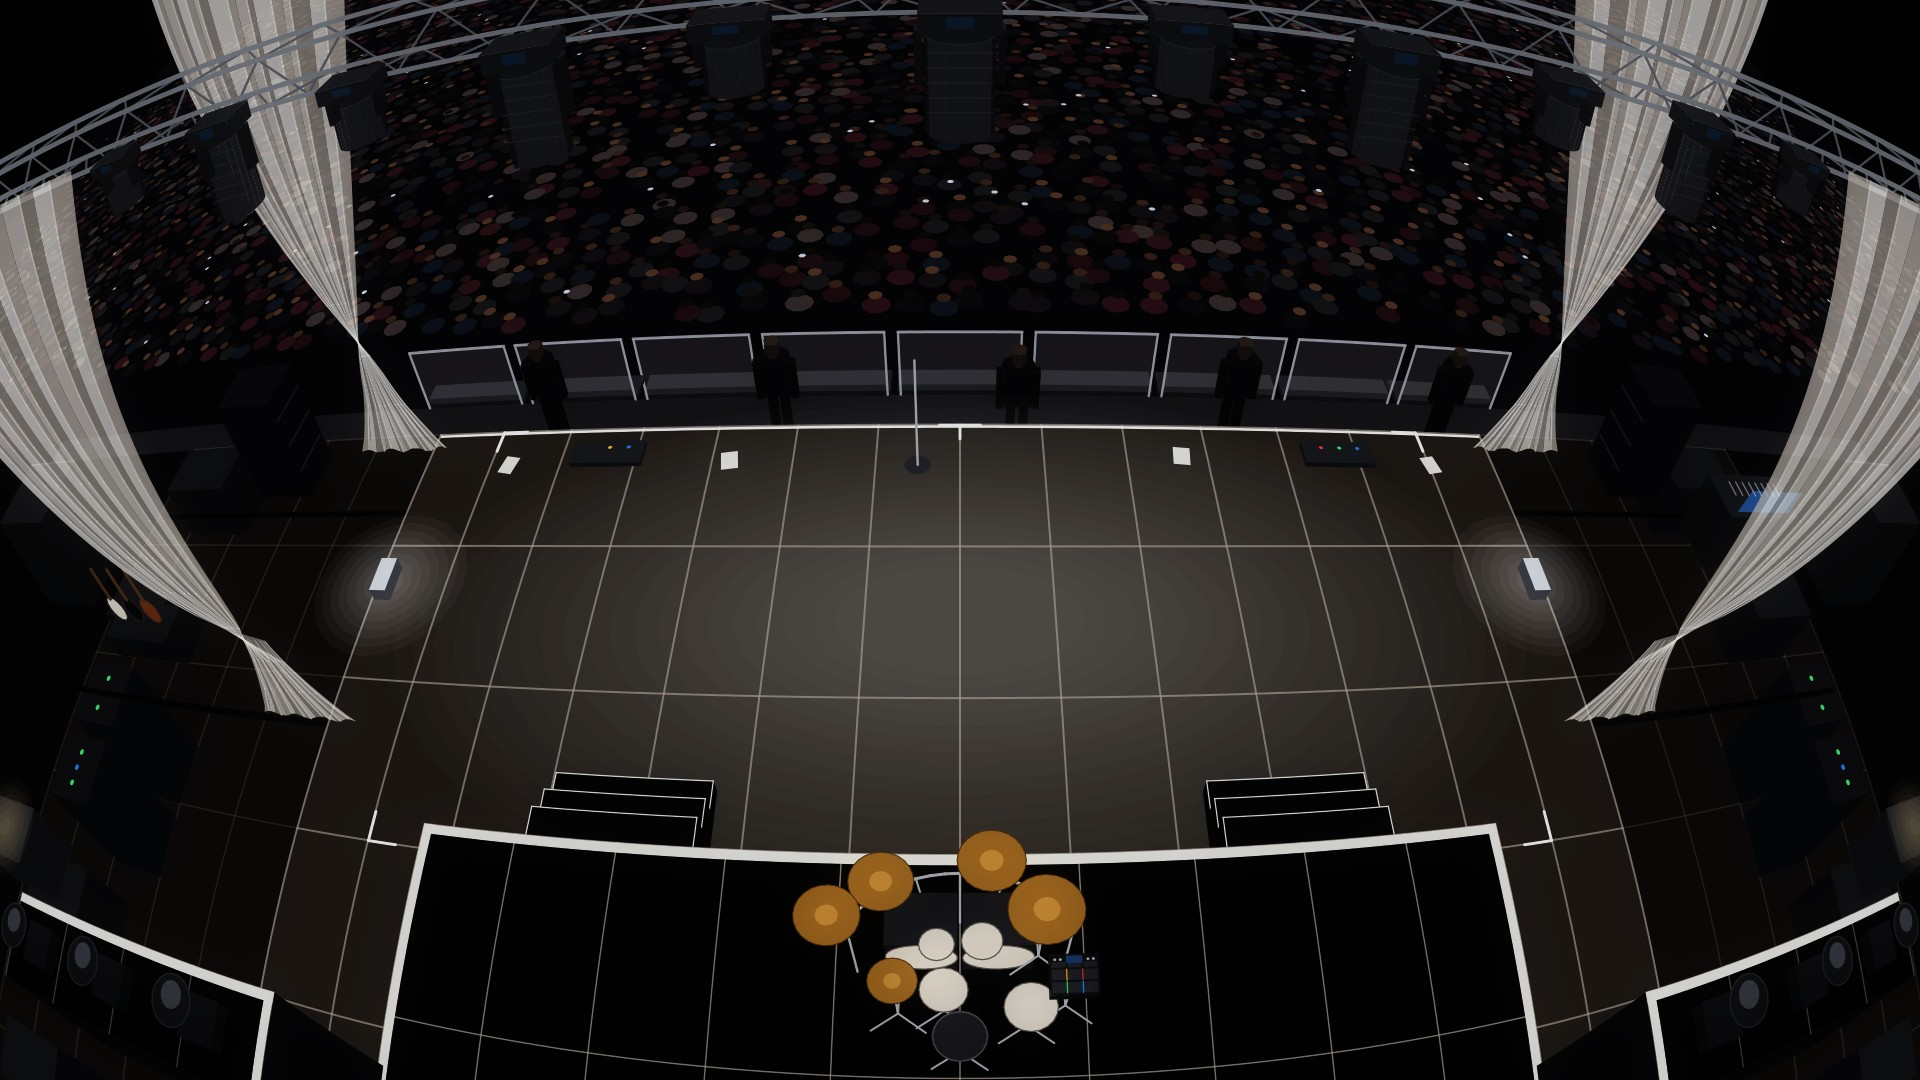
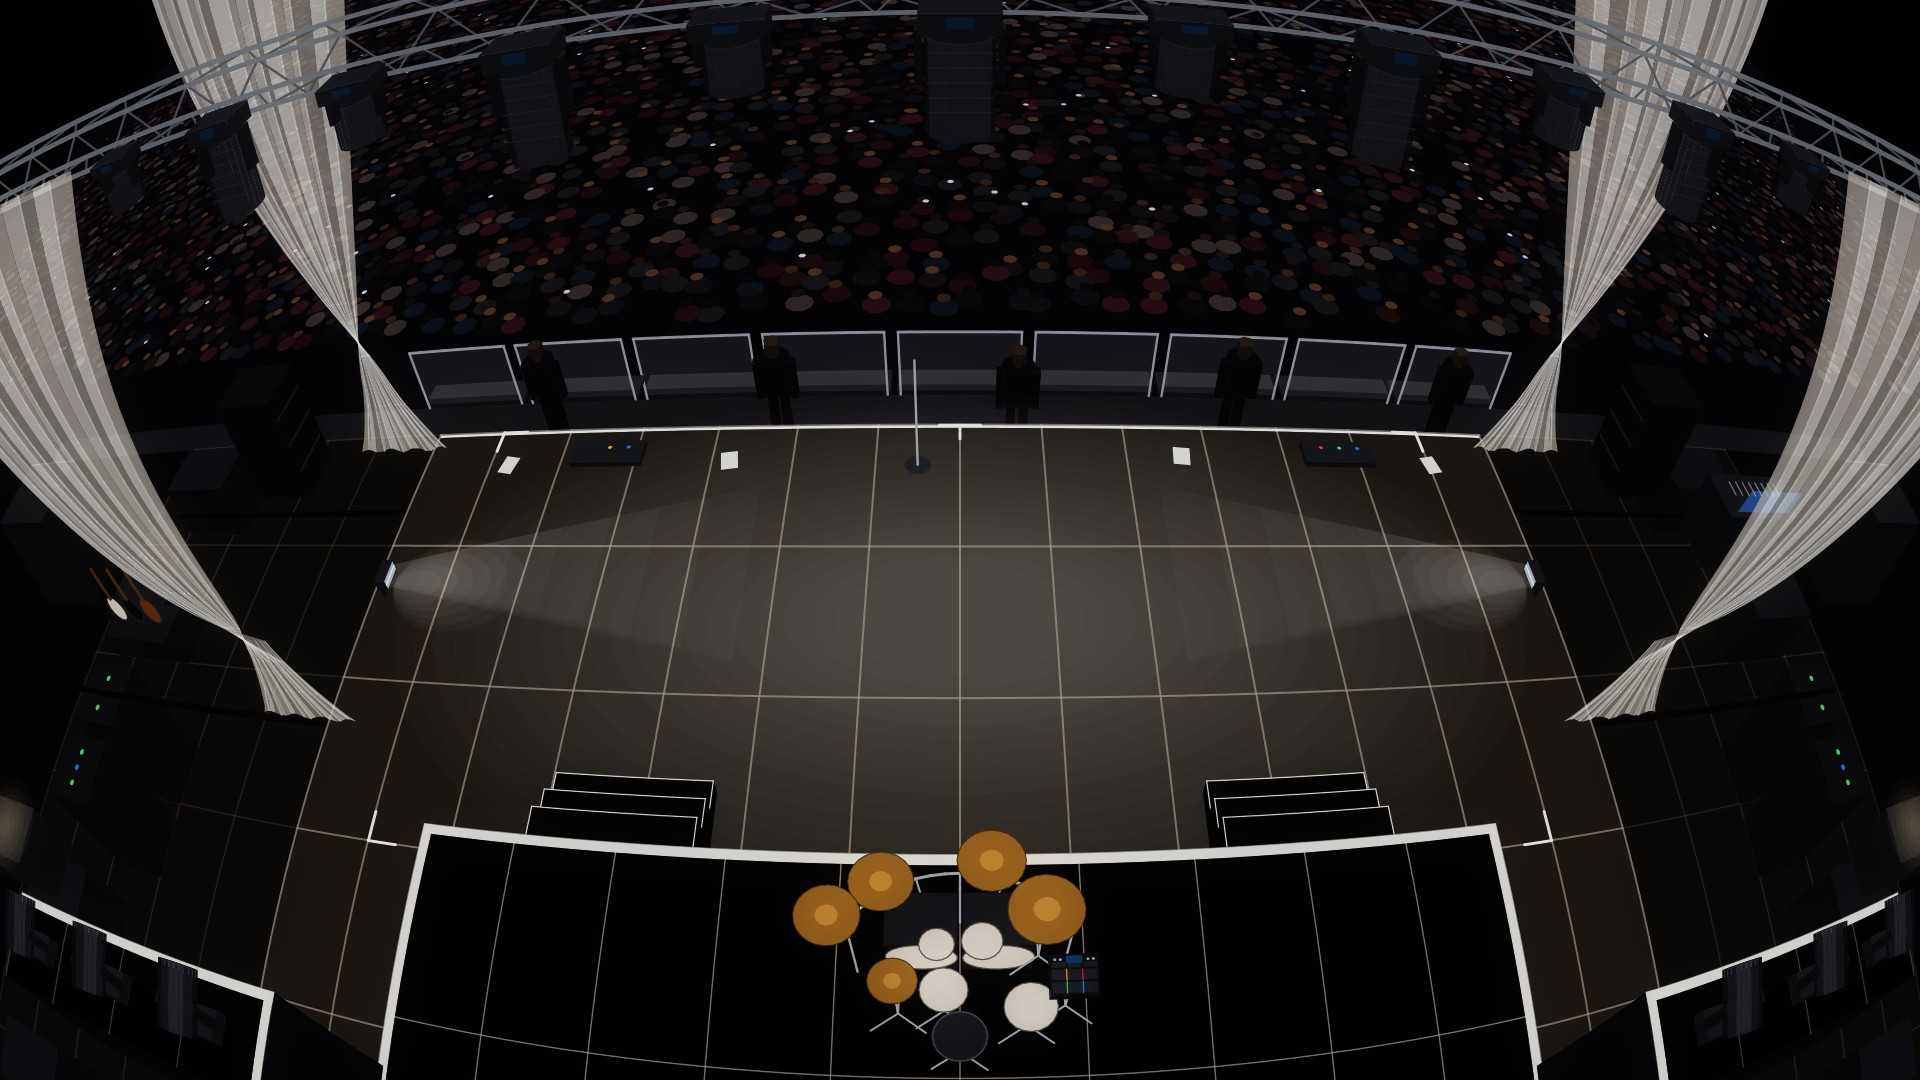
chore(gallery): aim the Concert's floor strobes at the centre and its riser spots at the crowd
The floor lights are GLP JDC1 strobes on their brackets, their lit faces
toward the centre with a beam in the haze. The spots on the side risers
are standing MAC Viper XIPs aimed at the audience.

diff --git a/scripts/gen_concert_default.py b/scripts/gen_concert_default.py
@@ -497,11 +497,23 @@ def side_risers(out: list[str]) -> None:
         out.append(poly([(x0, y0, h), (x1, y0, h), (x1, y0 + e, h), (x0, y0 + e, h)], "#f4f4f2"))
         ie = sorted((inner, inner + sgn * e))
         out.append(poly([(ie[0], y0, h), (ie[1], y0, h), (ie[1], y1, h), (ie[0], y1, h)], "#f4f4f2"))
-        for xm in (sgn * (xi + 0.7), sgn * (xi + 2.0), sgn * (xi + 3.3)):  # moving heads: base, head, lens
-            ym = (y0 + y1) / 2
-            box(out, xm - 0.22, xm + 0.22, ym - 0.22, ym + 0.22, h, h + 0.15, "#1c1d21", "#111215")
-            out.append(poly(disc(xm, ym, h + 0.55, 0.24, 18), "#202126", "#3a3c42", 1.5))
-            out.append(poly(disc(xm, ym - 0.05, h + 0.56, 0.13, 14), "#5a5e66"))
+        for xm in (sgn * (xi + 0.7), sgn * (xi + 2.0), sgn * (xi + 3.3)):
+            standing_light(out, xm, (y0 + y1) / 2, h, toward_centre=-sgn)
+
+
+def standing_light(out: list[str], x: float, y: float, z: float, toward_centre: int) -> None:
+    """A spot standing on the deck at height ``z``, its head aimed at the audience and tilted up: sized as a
+    Martin MAC Viper XIP (SPOT), the base, the yoke and the round head seen from behind."""
+    base_l, base_w, base_h, yoke_w, r, length = SPOT
+    tilt = math.radians(15.0)
+    pivot = np.array([x, y, z + 0.45])
+    aim = np.array([0.0, -math.cos(tilt), math.sin(tilt)])
+    back, front = pivot - 0.4 * length * aim, pivot + 0.6 * length * aim
+    box(out, x - base_l / 2, x + base_l / 2, y - base_w / 2, y + base_w / 2, z, z + base_h, "#303137", "#222328")
+    arms = sorted((x - yoke_w / 2, x + yoke_w / 2 - 0.04), key=lambda xa: toward_centre * xa)
+    box(out, arms[0], arms[0] + 0.04, y - 0.05, y + 0.05, z + base_h, pivot[2] + 0.05, "#303137", "#1b1c20")
+    can(out, back, front, r, "#3a3d44")
+    box(out, arms[1], arms[1] + 0.04, y - 0.05, y + 0.05, z + base_h, pivot[2] + 0.05, "#303137", "#1b1c20")
 
 
 def leg(out: list[str], sgn: int, y: float, x_out: float, x_in: float, x_tie: float, top: float, falls: bool) -> None:
@@ -603,12 +615,64 @@ def cylinder(out: list[str], x: float, y: float, z0: float, z1: float, r: float,
 
 
 def side_lights(out: list[str]) -> None:
-    """A small white fixture at each side of the stage, with its glow on the deck."""
+    """A GLP JDC1 strobe on its floor bracket at each side of the stage, aimed across the stage at the centre:
+    its beam fans out low through the haze toward the centre and spills onto the deck."""
+    depth, half_long, z0, z1 = 0.15, 0.17, 0.08, 0.24  # the head: 150 mm deep, its face 340 x 160 mm
     for sgn in (-1, 1):
-        x, y = sgn * (STAGE_X - 0.15), 2.6
-        for k in np.linspace(1.0, 0.2, 8):
-            out.append(poly(disc(x, y, 0.02, 1.1 * k, 24), "#ffffff", opacity=0.06))
-        box(out, x - 0.12, x + 0.12, y - 0.25, y + 0.25, 0.0, 0.18, "#e9ecf2", "#5a5d64")
+        x_back, y = sgn * (STAGE_X - 0.1), 2.6
+        x_face = x_back - sgn * depth
+        for k in np.linspace(1.0, 0.25, 7):  # the beam in the haze, widening toward the centre
+            reach, half = 4.5 * k, 1.2 * k
+            tip_x = x_face - sgn * reach
+            beam = [(x_face, y - half_long, (z0 + z1) / 2), (tip_x, y - half, z1 + 0.1), (tip_x, y + half, z1 + 0.1),
+                    (x_face, y + half_long, (z0 + z1) / 2)]  # fmt: skip
+            out.append(poly(beam, "#ffffff", opacity=0.035))
+        for k in np.linspace(1.0, 0.3, 6):  # the spill on the deck in front of the face
+            pool = [(x_face - sgn * (0.2 + 1.6 * k) * (0.5 + 0.5 * math.cos(t)), y + 0.7 * k * math.sin(t), 0.01)
+                    for t in np.linspace(0, 2 * math.pi, 24)]  # fmt: skip
+            out.append(poly(pool, "#ffffff", opacity=0.05))
+        xs = sorted((x_back, x_face))
+        for ya in (y - half_long - 0.03, y + half_long):  # the bracket's arms at both ends of the head
+            box(out, xs[0] + 0.05, xs[1] - 0.05, ya, ya + 0.03, 0.0, (z0 + z1) / 2 + 0.03, "#2a2b30", "#1c1d21")
+        box(out, xs[0], xs[1], y - half_long, y + half_long, z0, z1, "#2c2d33", "#1f2024")
+        out.append(
+            poly(_face(x_face, y, half_long - 0.01, z0 + 0.01, z1 - 0.01), "#cfd8e6")
+        )  # the pixel panels, lit white
+        out.append(
+            poly(_face(x_face, y, half_long - 0.01, (z0 + z1) / 2 - 0.015, (z0 + z1) / 2 + 0.015), "#ffffff")
+        )  # the strobe line
+
+
+def _face(x: float, y: float, half: float, za: float, zb: float) -> list[tuple[float, float, float]]:
+    """A rectangle in the plane x = ``x``, ``half`` either side of ``y``, from ``za`` up to ``zb``."""
+    return [(x, y - half, za), (x, y + half, za), (x, y + half, zb), (x, y - half, zb)]
+
+
+def can(out: list[str], back, front, r: float, lens: str, cap: str = "#24252a") -> None:
+    """A round body from its ``back`` to its ``front`` centre: the side facing the camera shaded, and whichever
+    end faces it, the ``front`` filled with ``lens`` inside a dark rim, the ``back`` with ``cap``."""
+    back, front = np.asarray(back, dtype=float), np.asarray(front, dtype=float)
+    axis = (front - back) / np.linalg.norm(front - back)
+    u = np.cross(axis, (0.0, 0.0, 1.0) if abs(axis[2]) < 0.9 else (1.0, 0.0, 0.0))
+    u /= np.linalg.norm(u)
+    v = np.cross(axis, u)
+    eye = CAMERA[:3]
+    ring = lambda c, rr, t: c + rr * (math.cos(t) * u + math.sin(t) * v)  # noqa: E731
+    ts = np.linspace(0, 2 * math.pi, 25)
+    for t0, t1 in pairwise(ts):
+        tm = (t0 + t1) / 2
+        normal = math.cos(tm) * u + math.sin(tm) * v
+        facing = float(np.dot(normal, (eye - (back + front) / 2) / np.linalg.norm(eye - (back + front) / 2)))
+        if facing <= 0:
+            continue
+        quad = [ring(back, r, t0), ring(front, r, t0), ring(front, r, t1), ring(back, r, t1)]
+        tone = "#44464e" if facing > 0.92 else "#2c2d33" if facing > 0.6 else "#1b1c20"  # a highlight along the top
+        out.append(poly([tuple(q) for q in quad], tone))
+    if np.dot(axis, eye - front) > 0:
+        out.append(poly([tuple(ring(front, r, t)) for t in ts], "#141518"))
+        out.append(poly([tuple(ring(front, 0.8 * r, t)) for t in ts], lens))
+    if np.dot(-axis, eye - back) > 0:
+        out.append(poly([tuple(ring(back, r, t)) for t in ts], cap, "#3e3f46", 1.0))
 
 
 def tape(out: list[str]) -> None:
